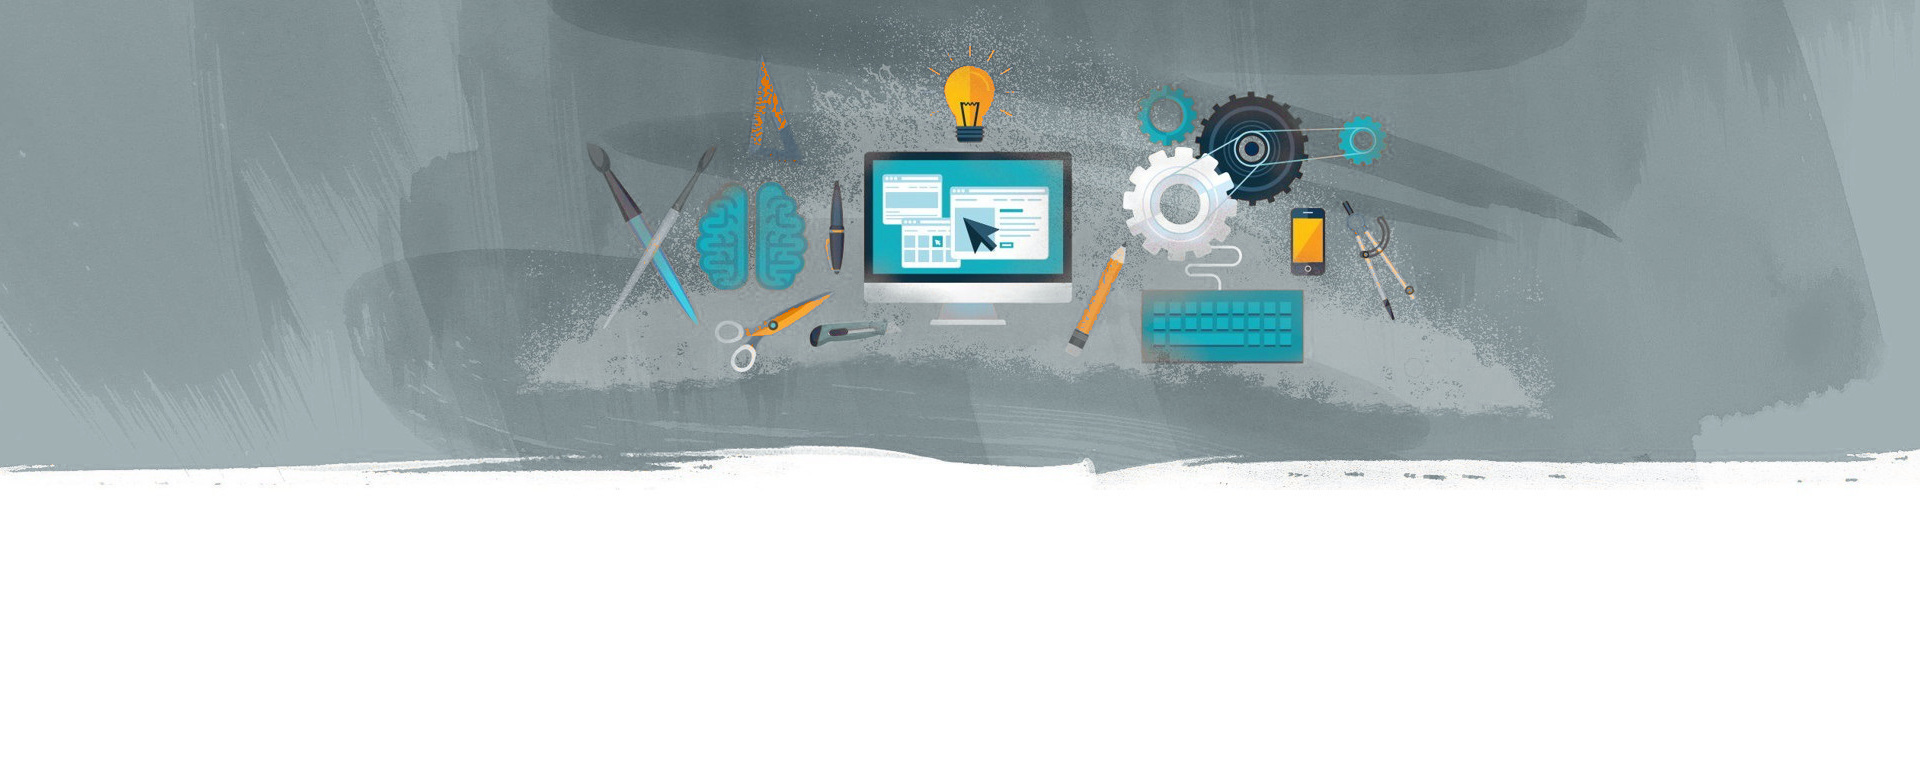
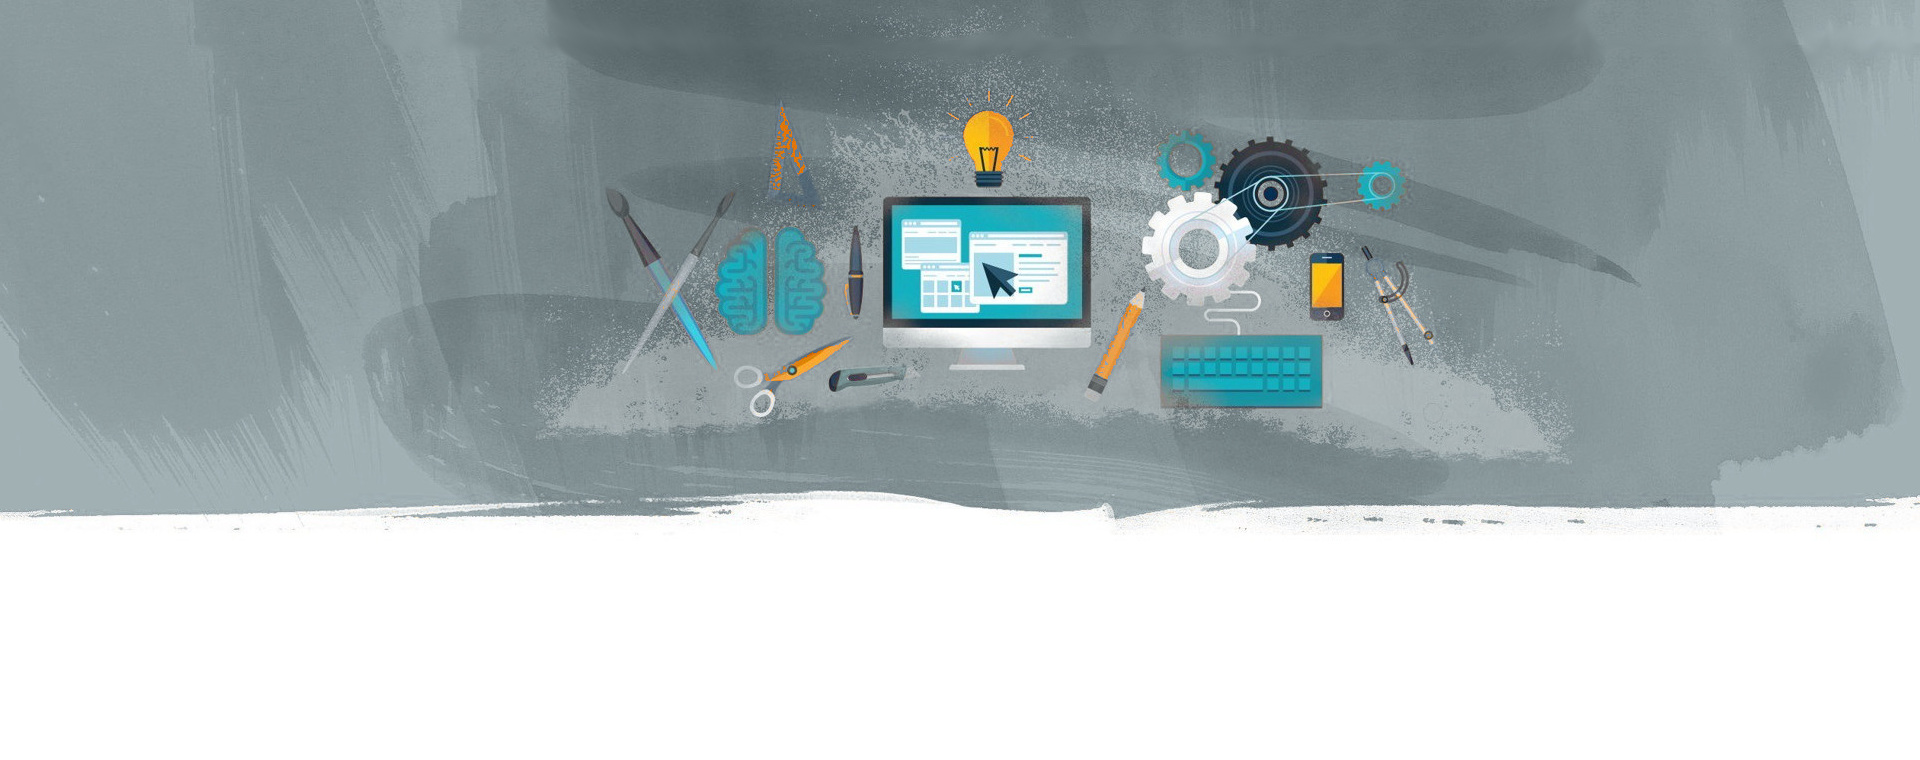
Add about-us page

diff --git a/about-us.html b/about-us.html
@@ -1,0 +1,133 @@
+<!--
+    Autores=Javier, Pablo Archanco y Miguel Paraiso
+    Fecha=10-dic-2015
+    Licencia=GPL v3
+    Version=1.0
+    Descripcion=Sobre nosotros "Webear"
+-->
+
+<!DOCTYPE html>
+<html>
+    <head>
+        <title>Sobre nosotros - Webear</title>
+        <meta http-equiv="Content-Type" content="text/html; charset=UTF-8">
+        <script type="text/javascript" src="js/jquery-2.0.2.min.js"></script>
+        <script type="text/javascript" src="js/menu.js"></script>
+        <script type="text/javascript" src="js/licenciaPopUp.js"></script>
+        <link rel="stylesheet" href="css/main.css">
+        <link rel="stylesheet" href="css/about-us.css">
+        <link rel="stylesheet" href="css/menu.css">
+        <link rel="stylesheet" href="css/social-sidebar.css">
+        <link rel="stylesheet" href="css/font-awesome.min.css">
+    </head>
+    <body>
+        <header class="col-12">
+            <div class="grid">
+                <div id="logo" class="col-5">
+                    <h1><a href="index.html"><img src="img/logos/logo.png" alt="Logo Webear"/></a></h1>
+                </div>
+                <div id="header-links" class="col-7">
+                    <div class="top-links col-12">
+                        <a href="#">Español - ES</a><span> | </span><a href="#">Ayuda</a>
+                    </div>
+                    <div class="bottom-links col-12">
+                        <a href="#" id="contact-phone">
+                            <span><i class="fa fa-phone"></i> <b>91 416 87 69</b></span>
+                        </a>
+                    </div>
+                </div>
+            </div>
+        </header>
+        <nav id="menu">
+            <ul>
+                <li><a href="index.html"><span>Home</span></a></li>
+                <li class="has-sub"><a href="services.html"><span>Servicios </span></a>
+                    <ul>
+                        <li><a href="services.html#services-main"><span>Nuestros servicios</span></a></li>
+                        <li><a href="services.html#services-secundary"><span>Tecnologías de desarollo</span></a></li>
+                    </ul>
+                </li>
+                <li><a href="projects.html"><span>Proyectos</span></a></li>
+                <li class="active"><a href="about-us.html"><span>Sobre nosotros</span></a></li>
+                <li><a href="contact.html"><span>Contacto</span></a></li>
+            </ul>
+        </nav>
+        <aside id="sticky-social">
+            <ul>
+                <li><a href="#" class="facebook" target="_blank"><i class="fa fa-facebook"></i><span>Facebook</span></a></li>
+                <li><a href="#" class="twitter" target="_blank"><i class="fa fa-twitter"></i><span>Twitter</span></a></li>
+                <li><a href="#" class="gplus" target="_blank"><i class="fa fa-google-plus"></i><span>Google+</span></a></li>
+                <li><a href="#" class="linkedin" target="_blank"><i class="fa fa-linkedin"></i><span>LinkedIn</span></a></li>
+                <li><a href="#" class="instagram" target="_blank"><i class="fa fa-instagram"></i><span>Instagram</span></a></li>
+                <li><a href="#" class="pinterest" target="_blank"><i class="fa fa-pinterest"></i><span>Pinterest</span></a></li>
+            </ul>
+        </aside>
+        <section id="about-us">
+            <!-- Intro Title -->
+            <div class="intro">
+                <div class="intro-image">
+                </div>
+                <div class="grid">
+                    <div class="intro-caption">
+                        <h2>Nuestro equipo</h2>
+                        <h3>La esencia de la compañía</h3>
+                    </div>
+                </div>
+            </div>
+            <article class="col-12" id="about-main">
+                <div class="grid2">
+                    <div class="col-12 flex">
+                        <div class="col-4">
+                            <img src="img/team/javier-cancela.png" alt="Javier Cancela">
+                            <h3>Javier Cancela</h3>
+                            <h4>CEO y Co-fundador</h4>
+                            <p>Administrador de Sistemas Informáticos y Desarrollador de aplicaciones multiplataforma. De corazón blanco y amante de la música electrónica.</p>
+                        </div>
+                        <div class="col-4">
+                            <img src="img/team/pablo-archanco.png" alt="Pablo Archanco">
+                            <h3>Pablo Archanco</h3>
+                            <h4>CFO y Co-fundador</h4>
+                            <p>Administrador de Sistemas Informáticos y Desarrollador de aplicaciones multiplataforma. De corazón blanco y amante de la música electrónica.</p>
+                        </div>
+                        <div class="col-4">
+                            <img src="img/team/miguel-paraiso.png" alt="Miguel Paraíso">
+                            <h3>Miguel Paraíso</h3>
+                            <h4>CTO y Co-fundador</h4>
+                            <p>Administrador de Sistemas Informáticos y Desarrollador de aplicaciones multiplataforma. De corazón blanco y amante de la música electrónica.</p>
+                        </div>
+                    </div>
+                </div>
+            </article>
+            <article class="col-12" id="about-secundary">
+                <div class="grid2">
+                    <h2>Sobre nosotros</h2>
+                    <p>
+                        Somos un equipo pequeño que asume el trabajo de integración tecnológica y de contenidos, la supervisión del proyecto web, desde la consultoría estratégica hasta el 
+                        desarrollo y lanzamiento. También trabajamos en coordinación con profesionales expertos que aporten valor al proyecto.
+                    </p>
+                    <ul>
+                        <li>Conocemos el medio y queremos ser el mejor socio de nuestros clientes en su estrategia digital.</li>
+                        <li>Enfatizamos en la conversión para obtener leads de calidad dispuestos a contratar, a comprar, a participar y a compartir.</li>
+                        <li>Todo lo que hacemos tiene un propósito estratégico para obtener resultados cuantificables. Ventas, Seguidores, Likes , Inscripciones, Comparticiones, Comentarios, Publicaciones...</li>
+                        <li>No nos conformamos con lo que nos piden para ir un paso más allá.</li>
+                        <li>Transmitimos conocimiento a nuestros clientes para que aprecien nuestro trabajo y sobre todo sumen valor al proyecto .</li>
+                    </ul>
+                </div>
+            </article>
+        </section>
+        <footer>
+            <div id="footer-bottom" class="col-12">
+                <div class="grid">
+                    <div class="footerInf col-6">
+                        <p>Copyright © 2015 Webear. <a href="legal.html"><b>Aviso legal</b></a> - 
+                            <a href="privacity.html"><b>Privacidad</b></a> - <a onclick=ventanaLicencia();><b>Licencia</b></a>
+                        </p>
+                    </div>
+                    <div class="footerInf2 col-6">
+                        <p>Ctra. Colmenar Viejo, Km. 12,800 - 28049 Madrid - <a><b>info@Webear.com</b></a></p>
+                    </div>
+                </div>
+            </div>
+        </footer>
+    </body>
+</html>

diff --git a/services.html b/services.html
@@ -48,7 +48,7 @@
                     </ul>
                 </li>
                 <li><a href="projects.html"><span>Proyectos</span></a></li>
-                <li><a href="team.html"><span>Equipo</span></a></li>
+                <li><a href="about-us.html"><span>Sobre nosotros</span></a></li>
                 <li><a href="contact.html"><span>Contacto</span></a></li>
             </ul>
         </nav>
@@ -79,7 +79,6 @@
                     <div class="col-12 flex">
                         <div class="col-4">
                             <h3>Páginas web</h3>
-            
                             <div class="content-container"><b>Diseño de páginas web adaptables a móviles y tablets</b>, nuestro
                                 diseño web
                                 de personas a personas con un servicio personal, orientación y asesoramiento, diseñadores de páginas
@@ -90,21 +89,17 @@
                         </div>
                         <div class="col-4">
                             <h3>Diseño de Logos</h3>
-            
                             <div class="content-container">Tener un logotipo de calidad por fin al alcance de todos, diseños
                                 personalizados y exclusivos. Imagínate, una imagen de calidad para tu empresa al mejor precio y con
                                 unas características inmejorables, no busques más… <b>Diseño de logotipos desde 150 € al mejor
-                                    precio
-                                    calidad en webear</b>, además si haces tu web y logotipo con nosotros, el diseño de tarjetas
+                                precio calidad en Webear</b>, además si haces tu web y logotipo con nosotros, el diseño de tarjetas
                                 gratis.
                                 Con webear si no tienes un logotipo es porque no quieres.
                             </div>
                         </div>
                         <div class="col-4">
-                            <h3>Especialistas WordPress
-                            </h3>
-            
-                            <div class="content-container"><b>Diseñadores en gestores de contenido CMS </b>especialstas WordPress,
+                            <h3>Especialistas WordPress</h3>
+                            <div class="content-container"><b>Diseñadores en gestores de contenido CMS </b>especialistas WordPress,
                                 Joomla…
                                 ampliación de blogs y web instaladas en WordPress, rediseño para WordPress, mantenimiento de
                                 sistemas WordPress, programación de plugins a medida… lo que quieras para el mejor gestor de
@@ -112,12 +107,10 @@
                                 cursos wordpress a medida, diseño o desarrollo wordpress consúltanos
                             </div>
                         </div>
-            
                     </div>
                     <div class="col-12 flex">
                         <div class="col-4">
                             <h3>Mantenimiento de paginas web</h3>
-            
                             <div class="content-container">Necesitas reparaciones en tu web, <b>mantenimiento</b>, cambios o renovar
                                 tu
                                 página web… consúltanos y te asesoramos para esa web que está sin terminar o desactualizada.
@@ -129,7 +122,6 @@
                         <div class="col-4">
                             <h3>Posicionamiento SEO
                             </h3>
-            
                             <div class="content-container"><b>Planes SEO de posicionamiento en buscadores de forma natural </b>con
                                 técnicas
                                 que te ayudarán a subir puestos rápidamente, optimizamos tu página y la hacemos visible en Google.
@@ -138,10 +130,7 @@
                             </div>
                         </div>
                         <div class="col-4">
-                            <h3>Formación WordPress y web
-            
-                            </h3>
-            
+                            <h3>Formación WordPress y web</h3>
                             <div class="content-container"><b>Formación en diseño WordPress, HTML5, CSS3, Javascript… </b>a
                                 medida
                                 tanto presencial como a distancia, un profesor solo para ti para cualquier necesidad en sistemas
@@ -155,29 +144,27 @@
             </article>
             <article class="col-12" id="services-secundary">
                 <div class="grid2">
-                    <div class="col-12"><h1 class="align-center">Expertos en tecnologías web</h1></div>
+                    <div class="col-12"><h2 class="align-center">Expertos en tecnologías web</h2></div>
                     <div class="col-12 ">
-                        <h2>Tecnologías Front End</h2>
-                        <img src="img/servicios/tech-logos-front-end.png" class="foto" alt="Tecnologías Front End">
-            
+                        <h3>Tecnologías Front End</h3>
+                        <img src="img/servicios/tech-logos-front-end.png" alt="Tecnologías Front End">
                     </div>
                     <div class="col-12 flex">
                         <div class="col-4">
-                            <h2>Tecnologías Back End</h2>
-                            <img src="img/servicios/php.png" class="foto" alt="Tecnologías Back End">
+                            <h3>Tecnologías Back End</h3>
+                            <img src="img/servicios/php.png" alt="Tecnologías Back End">
                         </div>
                         <div class="col-4">
-                            <h2>Tecnología responsive</h2>
-                            <img src="img/servicios/responisve.png" class="foto" alt="Tecnología responsive">
+                            <h3>Tecnología responsive</h3>
+                            <img src="img/servicios/responisve.png" alt="Tecnología responsive">
                         </div>
                         <div class="col-4">
-                            <h2>Gestión de contenidos</h2>
-                            <img src="img/servicios/cms.png" class="foto" alt="Gestión de contenidos">
+                            <h3>Gestión de contenidos</h3>
+                            <img src="img/servicios/cms.png" alt="Gestión de contenidos">
                         </div>
             
                     </div>
                 </div>
-            
             </article>
         </section>
         <footer>

diff --git a/css/services.css b/css/services.css
@@ -1,37 +1,22 @@
 /* ESTILOS DE LA SECCIÓN 'SERVICIOS' */
 
 #services .intro-image{
-	background-image: url("../img/services.jpg");	
+	background-image: url("../img/services.jpg");
+    background-size: 100%;	
 }
-
-/* Contenido */
 #services-main {
     background-color: #006e9d;
     color: #fff;
 }
-
 #services-secundary {
     background-color: #f7f7f7;
 }
-
-#services-main h1, #services-secundary h1 {
+#services-main h2, #services-secundary h2 {
     margin-bottom: 0;
 }
-
-#services-secundary h2{
-    font-size: 1.7em;
+#services-secundary h3{
     text-align: center;
 }
-
-.flex {
-    display: flex;
-    display: -webkit-box;      /* OLD - iOS 6-, Safari 3.1-6 */
-    display: -moz-box;         /* OLD - Firefox 19- (buggy but mostly works) */
-    display: -ms-flexbox;      /* TWEENER - IE 10 */
-    display: -webkit-flex;     /* NEW - Chrome */
-    display: flex;
-}
-.foto{
-    height: 100%;
+#services-secundary img{
     width: 100%;
 }

diff --git a/css/about-us.css b/css/about-us.css
@@ -1,0 +1,28 @@
+/* ESTILOS DE LA SECCIÓN 'SOBRE NOSOTROS' */
+
+#about-us .intro-image{
+	background-image: url("../img/about-us.jpg");
+    background-size: 100%;
+}
+#about-us h1 {
+    margin-bottom: 0;
+}
+#about-us ul {
+    -webkit-margin-before: 1em;
+    -webkit-margin-after: 1em;
+    -webkit-margin-start: 0px;
+    -webkit-margin-end: 0px;
+    -webkit-padding-start: 40px;
+    list-style-type: disc;
+}
+#about-main {
+    background-color: #006e9d;
+    color: #fff;
+    text-align: center;
+}
+#about-main img {
+    width: 90%;
+}
+#about-secundary {
+    background-color: #f7f7f7;
+}

diff --git a/contact.html b/contact.html
@@ -49,7 +49,7 @@
                     </ul>
                 </li>
                 <li><a href="projects.html"><span>Proyectos</span></a></li>
-                <li><a href="team.html"><span>Equipo</span></a></li>
+                <li><a href="about-us.html"><span>Sobre nosotros</span></a></li>
                 <li class="active"><a href="contact.html"><span>Contacto</span></a></li>
             </ul>
         </nav>

diff --git a/legal.html b/legal.html
@@ -47,7 +47,7 @@
                     </ul>
                 </li>
                 <li><a href="projects.html"><span>Proyectos</span></a></li>
-                <li><a href="team.html"><span>Equipo</span></a></li>
+                <li><a href="about-us.html"><span>Sobre nosotros</span></a></li>
                 <li><a href="contact.html"><span>Contacto</span></a></li>
             </ul>
         </nav>

diff --git a/privacity.html b/privacity.html
@@ -47,7 +47,7 @@
                     </ul>
                 </li>
                 <li><a href="projects.html"><span>Proyectos</span></a></li>
-                <li><a href="team.html"><span>Equipo</span></a></li>
+                <li><a href="about-us.html"><span>Sobre nosotros</span></a></li>
                 <li><a href="contact.html"><span>Contacto</span></a></li>
             </ul>
         </nav>

diff --git a/projects.html b/projects.html
@@ -51,7 +51,7 @@
                 </ul>
             </li>
             <li class="active"><a href="projects.html"><span>Proyectos</span></a></li>
-            <li><a href="team.html"><span>Equipo</span></a></li>
+            <li><a href="about-us.html"><span>Sobre nosotros</span></a></li>
             <li><a href="contact.html"><span>Contacto</span></a></li>
 		</ul>
 	</nav>

diff --git a/css/main.css b/css/main.css
@@ -31,6 +31,10 @@ body {
 }
 .flex {
 	display: flex;
+	display: -webkit-box;      /* OLD - iOS 6-, Safari 3.1-6 */
+    display: -moz-box;         /* OLD - Firefox 19- (buggy but mostly works) */
+    display: -ms-flexbox;      /* TWEENER - IE 10 */
+    display: -webkit-flex;     /* NEW - Chrome */
 }
 .col-1 {width: 8.33%;}
 .col-2 {width: 16.66%;}

diff --git a/index.html b/index.html
@@ -53,7 +53,7 @@
             </ul>
         </li>
         <li><a href="projects.html"><span>Proyectos</span></a></li>
-        <li><a href="team.html"><span>Equipo</span></a></li>
+        <li><a href="about-us.html"><span>Sobre nosotros</span></a></li>
         <li><a href="contact.html"><span>Contacto</span></a></li>
 		</ul>
 	</nav>

diff --git a/css/menu.css b/css/menu.css
@@ -48,7 +48,7 @@
   background: linear-gradient(to bottom, #0090CE 0%, #005173 100%);
 }
 #menu > ul {
-  width: 830px;
+  width: 845px;
   box-shadow: inset 0 -3px 0 rgba(0, 0, 0, 0.05);
   margin: 0 auto;
   left: 5px;

diff --git a/css/projects.css b/css/projects.css
@@ -1,5 +1,6 @@
 /* ESTILOS DE LA SECCIÓN 'PROYECTOS' */
 
 #projects .intro-image{
-	background-image: url("../img/projects.jpg");	
+	background-image: url("../img/projects.jpg");
+	background-size: 100%;
 }
